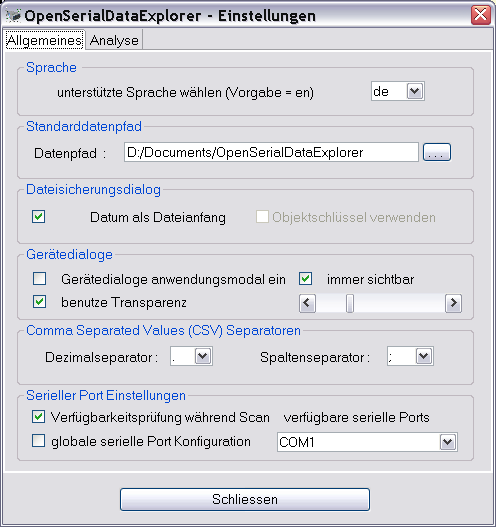
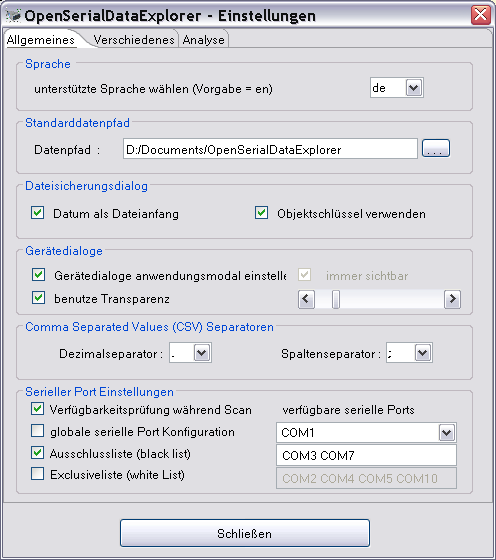
help/info update

Changed region(s): [[0.0, 0.0, 0.998, 1.0], [0.6048, 0.1518, 0.6351, 0.1822]]

diff --git a/DataExplorer/src/help/de/HelpInfo_1.html b/DataExplorer/src/help/de/HelpInfo_1.html
@@ -75,6 +75,8 @@
 	Verhalten ist manchmal unpraktisch, wenn man parallel zu einer
 	Datensammelaktion Einstellungen vornehmen m&ouml;chte, hat aber auch
 	zeitweise Nachteile und ist schwieriger zu programmieren.
+<P align=center><IMG SRC="images/Settingsdialog_1.png" NAME="graphics 1" ALIGN=CENTER>
+</P>
 	<LI>Der Dialog sucht beim &Ouml;ffnen automatisch nach
 	verf&uuml;gbaren seriellen Anschl&uuml;ssen und blendet das Ergebnis
 	m&ouml;glicherweise etwas zeitverz&ouml;gert ein. Diese
@@ -86,16 +88,18 @@
 	Systemen spielt das, zeitlich gesehen, keinen Rolle. Diese Einstellung
 	wirkt sich auch auf den Ger&auml;teauswahldialog aus, der seinerseits
 	auch nach verf&uuml;gbaren serielle Ports sucht.
-	<LI>Wenn es System weit nur einen seriellen Anschluss (Port) gibt,
+	<LI>Wenn es systemweit nur einen seriellen Anschluss (Port) gibt,
 	kann man hier die globale Einstellung vornehmen, meist sucht sich das
 	Programm aber selbst den seriellen Port zur Ger&auml;tekommunikation.
 	Der Dialog sucht beim &Ouml;ffnen nach seriellen Anschl&uuml;ssen und
 	blendet das Ergebnis m&ouml;glicherweise etwas zeitverz&ouml;gert ein.
 	Diese Einstellung wirkt sich auch auf den Ger&auml;teauswahldialog aus,
 	der dann die Portauswahl sperrt.
+	<LI>Mit Black-List- bzw. White-List- Einstelluingen kann man sein pers&ouml;hnliches System, in Bezug auf problematisch Ports, konfigurieren.
+	Diese Einstellungen gelten dann auch für den Gr&auml;teauswahldialog.
+	Die Ausschlussliste ignoriert darin angegebene Ports, w&auml;hrend die Exclusivliste die aufgelisteten Ports ausschliesslich anspricht.
+	Hier kann es aber, bei wechselnden Ports durch "Plug And Play" dazu kommen, dass die konfigurierten Ports nicht mehr in der Auswahl erscheinen, da sie vom System automatisch umkonfiguriert wurden.
 </UL>
-</P>
-<P align=center><IMG SRC="images/Settingsdialog_1.png" NAME="graphics 1" ALIGN=CENTER>
 </P>
 </P>
 <P>Über den Tabulator für Verschiednes kann man das Desktop-Starter-Icon erneut erstellen, bzw. entfernen.

diff --git a/DataExplorer/src/help/en/HelpInfo_1.html b/DataExplorer/src/help/en/HelpInfo_1.html
@@ -77,6 +77,8 @@
 	some times unhandy, if some adjustments are the place in parallel while
 	gathering data. Some times this cost more effort while programming
 	this.
+<P ALIGN=CENTER><IMG SRC="images/Settingsdialog_1.png" NAME="graphics 1" ALIGN=CENTER >
+</P>
 	<LI>While opening this dialog it scans for available serial ports
 	and updates the results delayed. The delay can be reduced on slow
 	systems by switching off the availability check. If this is the case
@@ -87,9 +89,11 @@
 	<LI>If system wide only one serial port is available it is
 	possible to configure global serial port usage, but in most cases the
 	single available port will be found automatically.
+	<LI>Using black-list or white-list configuration it is possible to configure according personal problematic ports.
+	This configuration is also valid for the device selection dialog, where device individual ports are selected.
+	Configure the black-list will ignore ports declared. On the other hand the white-list will exclusive use the configured ports.
+	Using the white list it is possible to miss ports dynamically configured by the system.
 </UL>
-</P>
-<P ALIGN=CENTER><IMG SRC="images/Settingsdialog_1.png" NAME="graphics 1" ALIGN=CENTER >
 </P>
 <H2>Miscellaneous Tab</H2>
 <P>

diff --git a/UniLog/src/help/en/HelpInfo.html b/UniLog/src/help/en/HelpInfo.html
@@ -43,7 +43,7 @@ requirements or simply model names like Model_1 to Model_4.
 make this help nearly obsolete. The tool tips are visible by hovering
 the mouse over the fields of interest. 
 </P>
-<P>The actual implementation fits the firmware version 1.06. 
+<P>The actual implementation fits the firmware version 1.10. 
 </P>
 <H2><FONT FACE="Arial"><FONT SIZE=4><I>The „Settings“ Tabulator</I></FONT></FONT></H2>
 <P>Afterwards the serial communication is configured using the device

diff --git a/UniLog/src/help/de/HelpInfo.html b/UniLog/src/help/de/HelpInfo.html
@@ -47,7 +47,7 @@ machen. Die Texte werden durch den dar&uuml;ber gehaltenen Mauszeiger
 sichtbar. 
 </P>
 <P>Die aktuelle Dialogimplementierung entspricht dem UniLog Firmware
-Stand 1.06. 
+Stand 1.10. 
 </P>
 <H2><A NAME="adjustment"></A><FONT FACE="Arial"><FONT SIZE=4><I>Der
 „Einstellung“ Tabulator</I></FONT></FONT></H2>
